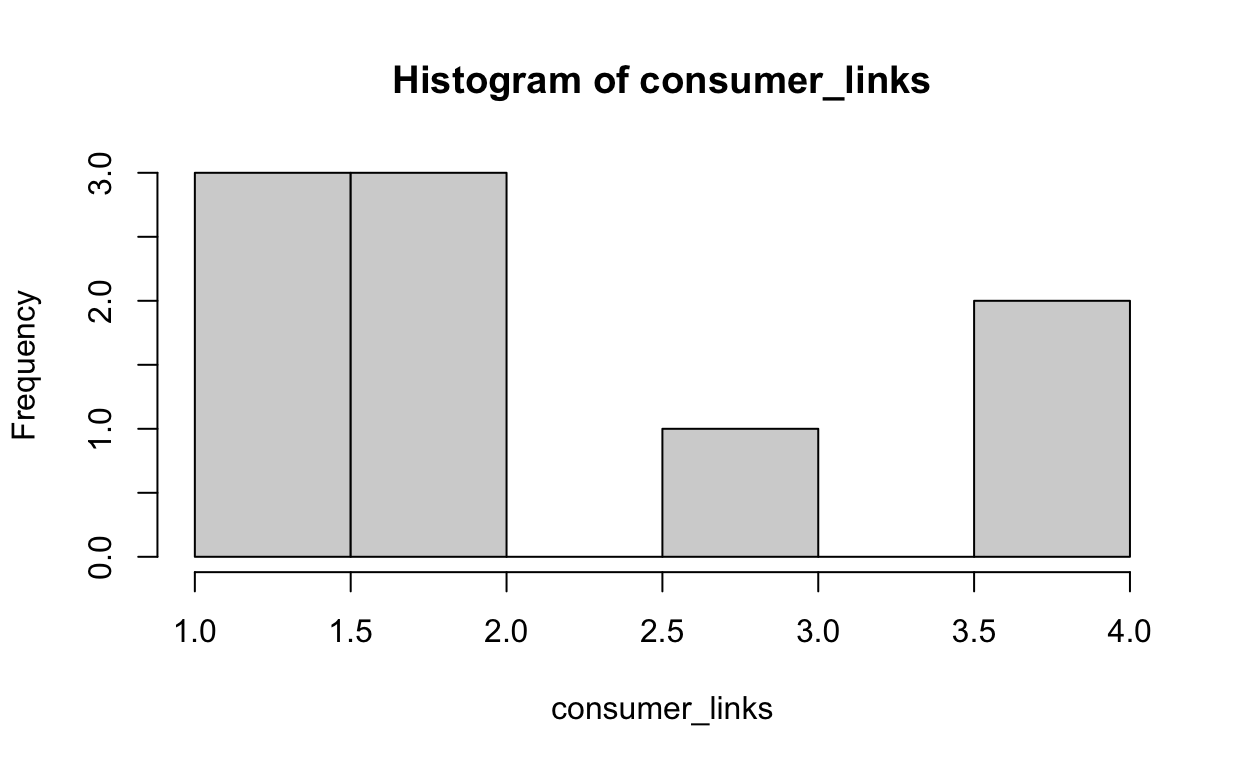
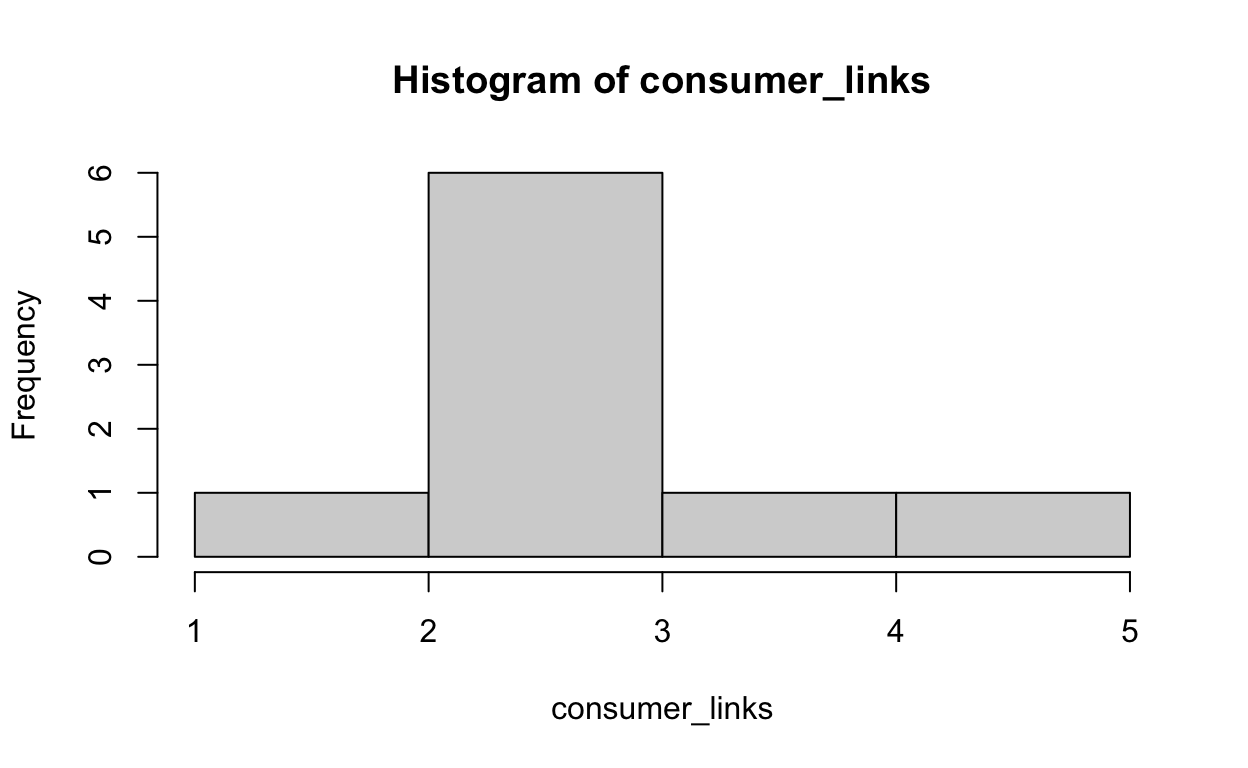
almost finished first draft

diff --git a/_posts/2022-04-13-beta-diversity-and-species-responses/beta-diversity-and-species-responses.html b/_posts/2022-04-13-beta-diversity-and-species-responses/beta-diversity-and-species-responses.html
@@ -94,7 +94,7 @@ code span.wa { color: #5e5e5e; font-style: italic; } /* Warning */
   <!--  https://schema.org/Article -->
   <meta property="article:published" itemprop="datePublished" content="2022-04-13"/>
   <meta property="article:created" itemprop="dateCreated" content="2022-04-13"/>
-  <meta name="article:author" content="Nora Jones"/>
+  <meta name="article:author" content="Andrew MacDonald"/>
 
   <!--  https://developers.facebook.com/docs/sharing/webmasters#markup -->
   <meta property="og:title" content="Beta diversity and species responses"/>
@@ -111,12 +111,12 @@ code span.wa { color: #5e5e5e; font-style: italic; } /* Warning */
   <!--radix_placeholder_rmarkdown_metadata-->
 
   <script type="text/json" id="radix-rmarkdown-metadata">
-  {"type":"list","attributes":{"names":{"type":"character","attributes":{},"value":["title","description","author","date","output"]}},"value":[{"type":"character","attributes":{},"value":["Beta diversity and species responses"]},{"type":"character","attributes":{},"value":["A short description of the post.\n"]},{"type":"list","attributes":{},"value":[{"type":"list","attributes":{"names":{"type":"character","attributes":{},"value":["name","url"]}},"value":[{"type":"character","attributes":{},"value":["Nora Jones"]},{"type":"character","attributes":{},"value":["https://example.com/norajones"]}]}]},{"type":"character","attributes":{},"value":["04-13-2022"]},{"type":"list","attributes":{"names":{"type":"character","attributes":{},"value":["distill::distill_article"]}},"value":[{"type":"list","attributes":{"names":{"type":"character","attributes":{},"value":["self_contained"]}},"value":[{"type":"logical","attributes":{},"value":[false]}]}]}]}
+  {"type":"list","attributes":{"names":{"type":"character","attributes":{},"value":["title","description","author","date","output"]}},"value":[{"type":"character","attributes":{},"value":["Beta diversity and species responses"]},{"type":"character","attributes":{},"value":["A short description of the post.\n"]},{"type":"list","attributes":{},"value":[{"type":"list","attributes":{"names":{"type":"character","attributes":{},"value":["name","url"]}},"value":[{"type":"character","attributes":{},"value":["Andrew MacDonald"]},{"type":"character","attributes":{},"value":["https://example.com/norajones"]}]}]},{"type":"character","attributes":{},"value":["04-13-2022"]},{"type":"list","attributes":{"names":{"type":"character","attributes":{},"value":["distill::distill_article"]}},"value":[{"type":"list","attributes":{"names":{"type":"character","attributes":{},"value":["self_contained"]}},"value":[{"type":"logical","attributes":{},"value":[false]}]}]}]}
   </script>
   <!--/radix_placeholder_rmarkdown_metadata-->
   
   <script type="text/json" id="radix-resource-manifest">
-  {"type":"character","attributes":{},"value":["beta-diversity-and-species-responses_files/figure-html5/unnamed-chunk-2-1.png","beta-diversity-and-species-responses_files/figure-html5/unnamed-chunk-3-1.png"]}
+  {"type":"character","attributes":{},"value":["beta-diversity-and-species-responses_files/anchor-4.2.2/anchor.min.js","beta-diversity-and-species-responses_files/bowser-1.9.3/bowser.min.js","beta-diversity-and-species-responses_files/distill-2.2.21/template.v2.js","beta-diversity-and-species-responses_files/figure-html5/unnamed-chunk-2-1.png","beta-diversity-and-species-responses_files/figure-html5/unnamed-chunk-3-1.png","beta-diversity-and-species-responses_files/figure-html5/unnamed-chunk-4-1.png","beta-diversity-and-species-responses_files/figure-html5/unnamed-chunk-6-1.png","beta-diversity-and-species-responses_files/figure-html5/unnamed-chunk-6-2.png","beta-diversity-and-species-responses_files/figure-html5/unnamed-chunk-7-1.png","beta-diversity-and-species-responses_files/header-attrs-2.11.3/header-attrs.js","beta-diversity-and-species-responses_files/jquery-3.6.0/jquery-3.6.0.js","beta-diversity-and-species-responses_files/jquery-3.6.0/jquery-3.6.0.min.js","beta-diversity-and-species-responses_files/jquery-3.6.0/jquery-3.6.0.min.map","beta-diversity-and-species-responses_files/popper-2.6.0/popper.min.js","beta-diversity-and-species-responses_files/tippy-6.2.7/tippy-bundle.umd.min.js","beta-diversity-and-species-responses_files/tippy-6.2.7/tippy-light-border.css","beta-diversity-and-species-responses_files/tippy-6.2.7/tippy.css","beta-diversity-and-species-responses_files/tippy-6.2.7/tippy.umd.min.js","beta-diversity-and-species-responses_files/webcomponents-2.0.0/webcomponents.js"]}
   </script>
   <!--radix_placeholder_navigation_in_header-->
   <!--/radix_placeholder_navigation_in_header-->
@@ -1455,7 +1455,7 @@ code span.wa { color: #5e5e5e; font-style: italic; } /* Warning */
 <!--radix_placeholder_front_matter-->
 
 <script id="distill-front-matter" type="text/json">
-{"title":"Beta diversity and species responses","description":"A short description of the post.","authors":[{"author":"Nora Jones","authorURL":"https://example.com/norajones","affiliation":"&nbsp;","affiliationURL":"#","orcidID":""}],"publishedDate":"2022-04-13T00:00:00.000+00:00","citationText":"Jones, 2022"}
+{"title":"Beta diversity and species responses","description":"A short description of the post.","authors":[{"author":"Andrew MacDonald","authorURL":"https://example.com/norajones","affiliation":"&nbsp;","affiliationURL":"#","orcidID":""}],"publishedDate":"2022-04-13T00:00:00.000+00:00","citationText":"MacDonald, 2022"}
 </script>
 
 <!--/radix_placeholder_front_matter-->
@@ -1472,14 +1472,17 @@ code span.wa { color: #5e5e5e; font-style: italic; } /* Warning */
 </div>
 
 <div class="d-byline">
-  Nora Jones <a href="https://example.com/norajones" class="uri">https://example.com/norajones</a> 
+  Andrew MacDonald <a href="https://example.com/norajones" class="uri">https://example.com/norajones</a> 
   
 <br/>04-13-2022
 </div>
 
 <div class="d-article">
 <div class="layout-chunk" data-layout="l-body">
-
+<div class="sourceCode">
+<pre class="sourceCode r"><code class="sourceCode r"><span class='kw'><a href='https://rdrr.io/r/base/library.html'>library</a></span><span class='op'>(</span><span class='va'><a href='https://tidyverse.tidyverse.org'>tidyverse</a></span><span class='op'>)</span>
+</code></pre>
+</div>
 </div>
 <h3 id="food-web-simulations">Food web simulations</h3>
 <p>Need to simulate the food web in a plausible way. Some constraints:</p>
@@ -1501,16 +1504,112 @@ Do we want to have some kind of.. <em>3</em>-inflated distribution for our links
 <p>One simple way to do this is to allow the node distribution to have an average centered on 3</p>
 <p>The steps: * find the average p for a food web where most species eat 3 things * let each consumer have a different p (complexify this later) * draw links for each predator</p>
 <div class="layout-chunk" data-layout="l-body">
+<div class="sourceCode">
+<pre class="sourceCode r"><code class="sourceCode r"><span class='va'>n_basal</span> <span class='op'>&lt;-</span> <span class='fl'>3</span>
+<span class='va'>S</span> <span class='op'>&lt;-</span> <span class='fl'>12</span>
+
+<span class='va'>mean_p</span> <span class='op'>&lt;-</span> <span class='op'>(</span><span class='va'>n_basal</span> <span class='op'>-</span> <span class='fl'>1</span><span class='op'>)</span><span class='op'>/</span><span class='op'>(</span><span class='va'>S</span> <span class='op'>-</span> <span class='fl'>1</span><span class='op'>)</span>
+
+<span class='va'>consumer_probs</span> <span class='op'>&lt;-</span> <span class='fu'><a href='https://rdrr.io/r/stats/Beta.html'>rbeta</a></span><span class='op'>(</span>n <span class='op'>=</span> <span class='va'>S</span> <span class='op'>-</span> <span class='va'>n_basal</span>, <span class='va'>mean_p</span> <span class='op'>*</span> <span class='fl'>3</span>, <span class='op'>(</span><span class='fl'>1</span> <span class='op'>-</span> <span class='va'>mean_p</span><span class='op'>)</span> <span class='op'>*</span> <span class='fl'>3</span><span class='op'>)</span>
+
+<span class='va'>consumer_links</span> <span class='op'>&lt;-</span> <span class='fu'><a href='https://rdrr.io/r/stats/Binomial.html'>rbinom</a></span><span class='op'>(</span><span class='va'>S</span> <span class='op'>-</span> <span class='va'>n_basal</span>, <span class='va'>S</span> <span class='op'>-</span> <span class='fl'>1</span>, prob <span class='op'>=</span> <span class='va'>consumer_probs</span><span class='op'>)</span> <span class='op'>+</span> <span class='fl'>1</span>
+
+<span class='fu'><a href='https://rdrr.io/r/graphics/hist.html'>hist</a></span><span class='op'>(</span><span class='va'>consumer_links</span><span class='op'>)</span>
+</code></pre>
+</div>
 <p><img src="beta-diversity-and-species-responses_files/figure-html5/unnamed-chunk-2-1.png" width="624" /></p>
 </div>
 <p>this could be converted to the logit scale:</p>
 <div class="layout-chunk" data-layout="l-body">
+<div class="sourceCode">
+<pre class="sourceCode r"><code class="sourceCode r"><span class='va'>consumer_probs_logit</span> <span class='op'>&lt;-</span> <span class='fu'><a href='https://rdrr.io/r/stats/Logistic.html'>plogis</a></span><span class='op'>(</span><span class='fu'><a href='https://rdrr.io/r/stats/Logistic.html'>qlogis</a></span><span class='op'>(</span><span class='va'>mean_p</span><span class='op'>)</span> <span class='op'>+</span> <span class='fu'><a href='https://rdrr.io/r/stats/Normal.html'>rnorm</a></span><span class='op'>(</span><span class='va'>S</span> <span class='op'>-</span> <span class='va'>n_basal</span>, mean <span class='op'>=</span> <span class='fl'>0</span>, sd <span class='op'>=</span> <span class='fl'>.2</span><span class='op'>)</span><span class='op'>)</span>
+
+<span class='va'>degrees</span> <span class='op'>&lt;-</span> <span class='fu'><a href='https://rdrr.io/r/stats/Binomial.html'>rbinom</a></span><span class='op'>(</span><span class='va'>S</span> <span class='op'>-</span> <span class='va'>n_basal</span>, <span class='va'>S</span> <span class='op'>-</span> <span class='fl'>1</span>, prob <span class='op'>=</span> <span class='va'>consumer_probs_logit</span><span class='op'>)</span> <span class='op'>+</span> <span class='fl'>1</span>
+
+<span class='fu'>tibble</span><span class='op'>(</span><span class='va'>degrees</span><span class='op'>)</span> |&gt; 
+  <span class='fu'>count</span><span class='op'>(</span><span class='va'>degrees</span><span class='op'>)</span> |&gt; 
+  <span class='fu'>ggplot</span><span class='op'>(</span><span class='fu'>aes</span><span class='op'>(</span>x <span class='op'>=</span> <span class='va'>degrees</span>, y <span class='op'>=</span> <span class='va'>n</span><span class='op'>)</span><span class='op'>)</span> <span class='op'>+</span> 
+  <span class='fu'>geom_bar</span><span class='op'>(</span>stat <span class='op'>=</span> <span class='st'>"identity"</span><span class='op'>)</span> <span class='op'>+</span> 
+  <span class='fu'>coord_cartesian</span><span class='op'>(</span>xlim <span class='op'>=</span> <span class='fu'><a href='https://rdrr.io/r/base/c.html'>c</a></span><span class='op'>(</span><span class='fl'>0</span>, <span class='va'>S</span><span class='op'>)</span><span class='op'>)</span>
+</code></pre>
+</div>
 <p><img src="beta-diversity-and-species-responses_files/figure-html5/unnamed-chunk-3-1.png" width="624" /></p>
 </div>
 <h3 id="simulate-incidence-functions">simulate incidence functions</h3>
+<p><span class="math display">\[
+\begin{align}
+Y_i &amp;\sim \text{Binomial}(p, 1) \\
+\text{logit}(p) &amp;= a(\phi - b) \\
+\phi &amp;= \bar{\phi} + \beta_{e}X_e \\
+\begin{bmatrix} a \cr b\ \end{bmatrix} &amp;\sim \text{MVN}(\begin{bmatrix} \bar{a} \cr \bar{b}\ \end{bmatrix}, \Sigma)
+\end{align}
+\]</span></p>
 <div class="layout-chunk" data-layout="l-body">
+<div class="sourceCode">
+<pre class="sourceCode r"><code class="sourceCode r"><span class='va'>nsites</span> <span class='op'>&lt;-</span> <span class='fl'>45</span>
+<span class='va'>x</span> <span class='op'>&lt;-</span> <span class='fu'><a href='https://rdrr.io/r/stats/Uniform.html'>runif</a></span><span class='op'>(</span><span class='va'>nsites</span>, min <span class='op'>=</span> <span class='op'>-</span><span class='fl'>3</span>, max <span class='op'>=</span> <span class='fl'>3</span><span class='op'>)</span>
 
+<span class='va'>bar_phi</span> <span class='op'>&lt;-</span> <span class='op'>-</span><span class='fl'>1</span>
+<span class='va'>beta_phi</span> <span class='op'>&lt;-</span> <span class='fl'>.3</span>
+
+<span class='va'>phi</span> <span class='op'>&lt;-</span> <span class='va'>bar_phi</span> <span class='op'>+</span> <span class='va'>beta_phi</span> <span class='op'>*</span> <span class='va'>x</span>
+
+<span class='fu'><a href='https://rdrr.io/r/graphics/plot.default.html'>plot</a></span><span class='op'>(</span><span class='va'>x</span>, <span class='fu'><a href='https://rdrr.io/r/stats/Logistic.html'>plogis</a></span><span class='op'>(</span><span class='va'>phi</span><span class='op'>)</span><span class='op'>)</span>
+</code></pre>
 </div>
+<p><img src="beta-diversity-and-species-responses_files/figure-html5/unnamed-chunk-4-1.png" width="624" /></p>
+</div>
+<p>simulate correlated <span class="math inline">\(a\)</span> and <span class="math inline">\(b\)</span></p>
+<div class="layout-chunk" data-layout="l-body">
+<div class="sourceCode">
+<pre class="sourceCode r"><code class="sourceCode r"><span class='va'>corr_mat</span> <span class='op'>&lt;-</span> <span class='fu'><a href='https://rdrr.io/r/base/matrix.html'>matrix</a></span><span class='op'>(</span><span class='fu'><a href='https://rdrr.io/r/base/c.html'>c</a></span><span class='op'>(</span><span class='fl'>1</span>, <span class='fl'>.5</span>, <span class='fl'>.5</span>, <span class='fl'>1</span><span class='op'>)</span>, nrow <span class='op'>=</span> <span class='fl'>2</span><span class='op'>)</span>
+<span class='va'>sds</span> <span class='op'>&lt;-</span> <span class='fu'><a href='https://rdrr.io/r/base/c.html'>c</a></span><span class='op'>(</span><span class='fl'>.4</span>, <span class='fl'>1</span><span class='op'>)</span>
+
+<span class='va'>sig</span> <span class='op'>&lt;-</span> <span class='fu'><a href='https://rdrr.io/r/base/diag.html'>diag</a></span><span class='op'>(</span><span class='va'>sds</span><span class='op'>)</span> <span class='op'>%*%</span> <span class='va'>corr_mat</span> <span class='op'>%*%</span> <span class='fu'><a href='https://rdrr.io/r/base/diag.html'>diag</a></span><span class='op'>(</span><span class='va'>sds</span><span class='op'>)</span>
+
+<span class='va'>consumer_a_b</span> <span class='op'>&lt;-</span> <span class='fu'>MASS</span><span class='fu'>::</span><span class='fu'><a href='https://rdrr.io/pkg/MASS/man/mvrnorm.html'>mvrnorm</a></span><span class='op'>(</span><span class='va'>S</span> <span class='op'>-</span> <span class='va'>n_basal</span>, mu <span class='op'>=</span> <span class='fu'><a href='https://rdrr.io/r/base/c.html'>c</a></span><span class='op'>(</span><span class='fl'>1.5</span>, <span class='op'>-</span><span class='fl'>3</span><span class='op'>)</span>, Sigma <span class='op'>=</span> <span class='va'>sig</span><span class='op'>)</span>
+</code></pre>
+</div>
+</div>
+<p>match species and sites to the coefs:</p>
+<div class="layout-chunk" data-layout="l-body">
+<div class="sourceCode">
+<pre class="sourceCode r"><code class="sourceCode r"><span class='va'>fake_data</span> <span class='op'>&lt;-</span> <span class='fu'>expand_grid</span><span class='op'>(</span>site <span class='op'>=</span> <span class='fl'>1</span><span class='op'>:</span><span class='va'>nsites</span>, sp <span class='op'>=</span> <span class='fl'>1</span><span class='op'>:</span><span class='op'>(</span><span class='va'>S</span> <span class='op'>-</span> <span class='va'>n_basal</span><span class='op'>)</span><span class='op'>)</span> |&gt; 
+  <span class='fu'>mutate</span><span class='op'>(</span>
+    x <span class='op'>=</span> <span class='va'>x</span><span class='op'>[</span><span class='va'>site</span><span class='op'>]</span>,
+    logit_prob <span class='op'>=</span> <span class='va'>consumer_a_b</span><span class='op'>[</span><span class='va'>sp</span>, <span class='fl'>1</span><span class='op'>]</span> <span class='op'>*</span> <span class='op'>(</span><span class='va'>phi</span><span class='op'>[</span><span class='va'>site</span><span class='op'>]</span> <span class='op'>-</span> <span class='va'>consumer_a_b</span><span class='op'>[</span><span class='va'>sp</span>, <span class='fl'>2</span><span class='op'>]</span><span class='op'>)</span><span class='op'>)</span>
+
+<span class='va'>fake_data</span> |&gt; 
+  <span class='fu'>ggplot</span><span class='op'>(</span><span class='fu'>aes</span><span class='op'>(</span>x <span class='op'>=</span> <span class='va'>x</span>, y <span class='op'>=</span> <span class='va'>logit_prob</span>, group <span class='op'>=</span> <span class='va'>sp</span><span class='op'>)</span><span class='op'>)</span> <span class='op'>+</span> 
+  <span class='fu'>geom_line</span><span class='op'>(</span><span class='op'>)</span>
+</code></pre>
+</div>
+<img src="beta-diversity-and-species-responses_files/figure-html5/unnamed-chunk-6-1.png" width="624" />
+<div class="sourceCode">
+<pre class="sourceCode r"><code class="sourceCode r"><span class='va'>fake_data</span> |&gt; 
+  <span class='fu'>ggplot</span><span class='op'>(</span><span class='fu'>aes</span><span class='op'>(</span>x <span class='op'>=</span> <span class='va'>x</span>, y <span class='op'>=</span> <span class='fu'><a href='https://rdrr.io/r/stats/Logistic.html'>plogis</a></span><span class='op'>(</span><span class='va'>logit_prob</span><span class='op'>)</span>, group <span class='op'>=</span> <span class='va'>sp</span><span class='op'>)</span><span class='op'>)</span> <span class='op'>+</span> 
+  <span class='fu'>geom_line</span><span class='op'>(</span><span class='op'>)</span>
+</code></pre>
+</div>
+<p><img src="beta-diversity-and-species-responses_files/figure-html5/unnamed-chunk-6-2.png" width="624" /></p>
+</div>
+<p>Now, we need to sample species compositions from this curve</p>
+<div class="layout-chunk" data-layout="l-body">
+<div class="sourceCode">
+<pre class="sourceCode r"><code class="sourceCode r"><span class='va'>fake_data_obs</span> <span class='op'>&lt;-</span> <span class='va'>fake_data</span> |&gt; 
+  <span class='fu'>mutate</span><span class='op'>(</span>prb <span class='op'>=</span> <span class='fu'><a href='https://rdrr.io/r/stats/Logistic.html'>plogis</a></span><span class='op'>(</span><span class='va'>logit_prob</span><span class='op'>)</span>,
+         presabs <span class='op'>=</span> <span class='fu'><a href='https://rdrr.io/r/stats/Binomial.html'>rbinom</a></span><span class='op'>(</span><span class='fu'><a href='https://rdrr.io/r/base/nrow.html'>nrow</a></span><span class='op'>(</span><span class='va'>fake_data</span><span class='op'>)</span>, size <span class='op'>=</span> <span class='fl'>1</span>, prob <span class='op'>=</span> <span class='va'>prb</span><span class='op'>)</span><span class='op'>)</span>
+
+<span class='va'>fake_data_obs</span> |&gt; 
+  <span class='fu'>group_by</span><span class='op'>(</span><span class='va'>site</span>, <span class='va'>x</span><span class='op'>)</span> |&gt; 
+  <span class='fu'>summarize</span><span class='op'>(</span>richness <span class='op'>=</span> <span class='fu'><a href='https://rdrr.io/r/base/sum.html'>sum</a></span><span class='op'>(</span><span class='va'>presabs</span><span class='op'>)</span><span class='op'>)</span> |&gt; 
+  <span class='fu'>ggplot</span><span class='op'>(</span><span class='fu'>aes</span><span class='op'>(</span>x <span class='op'>=</span> <span class='va'>x</span>, y <span class='op'>=</span> <span class='va'>richness</span><span class='op'>)</span><span class='op'>)</span> <span class='op'>+</span> <span class='fu'>geom_point</span><span class='op'>(</span><span class='op'>)</span>
+</code></pre>
+</div>
+<p><img src="beta-diversity-and-species-responses_files/figure-html5/unnamed-chunk-7-1.png" width="624" /></p>
+</div>
+<p>Finally, we can tweak the simulation to include correlations between the response to the environment and the number of nodes</p>
+<p>Could then look at the relationship between connectance and the environment, for example</p>
 <div class="sourceCode" id="cb1"><pre class="sourceCode r distill-force-highlighting-css"><code class="sourceCode r"></code></pre></div>
 <!--radix_placeholder_article_footer-->
 <!--/radix_placeholder_article_footer-->

diff --git a/_docs/posts/2022-04-13-beta-diversity-and-species-responses/index.html b/_docs/posts/2022-04-13-beta-diversity-and-species-responses/index.html
@@ -94,7 +94,7 @@ code span.wa { color: #5e5e5e; font-style: italic; } /* Warning */
 <!--  https://schema.org/Article -->
 <meta property="article:published" itemprop="datePublished" content="2022-04-13"/>
 <meta property="article:created" itemprop="dateCreated" content="2022-04-13"/>
-<meta name="article:author" content="Nora Jones"/>
+<meta name="article:author" content="Andrew MacDonald"/>
 
 <!--  https://developers.facebook.com/docs/sharing/webmasters#markup -->
 <meta property="og:title" content="sCaleWebs model simulations: Beta diversity and species responses"/>
@@ -112,12 +112,12 @@ code span.wa { color: #5e5e5e; font-style: italic; } /* Warning */
   <!--radix_placeholder_rmarkdown_metadata-->
 
 <script type="text/json" id="radix-rmarkdown-metadata">
-{"type":"list","attributes":{"names":{"type":"character","attributes":{},"value":["title","description","author","date","output"]}},"value":[{"type":"character","attributes":{},"value":["Beta diversity and species responses"]},{"type":"character","attributes":{},"value":["A short description of the post."]},{"type":"list","attributes":{},"value":[{"type":"list","attributes":{"names":{"type":"character","attributes":{},"value":["name","url"]}},"value":[{"type":"character","attributes":{},"value":["Nora Jones"]},{"type":"character","attributes":{},"value":["https://example.com/norajones"]}]}]},{"type":"character","attributes":{},"value":["04-13-2022"]},{"type":"list","attributes":{"names":{"type":"character","attributes":{},"value":["distill::distill_article"]}},"value":[{"type":"list","attributes":{"names":{"type":"character","attributes":{},"value":["self_contained"]}},"value":[{"type":"logical","attributes":{},"value":[false]}]}]}]}
+{"type":"list","attributes":{"names":{"type":"character","attributes":{},"value":["title","description","author","date","output"]}},"value":[{"type":"character","attributes":{},"value":["Beta diversity and species responses"]},{"type":"character","attributes":{},"value":["A short description of the post."]},{"type":"list","attributes":{},"value":[{"type":"list","attributes":{"names":{"type":"character","attributes":{},"value":["name","url"]}},"value":[{"type":"character","attributes":{},"value":["Andrew MacDonald"]},{"type":"character","attributes":{},"value":["https://example.com/norajones"]}]}]},{"type":"character","attributes":{},"value":["04-13-2022"]},{"type":"list","attributes":{"names":{"type":"character","attributes":{},"value":["distill::distill_article"]}},"value":[{"type":"list","attributes":{"names":{"type":"character","attributes":{},"value":["self_contained"]}},"value":[{"type":"logical","attributes":{},"value":[false]}]}]}]}
 </script>
 <!--/radix_placeholder_rmarkdown_metadata-->
   
   <script type="text/json" id="radix-resource-manifest">
-  {"type":"character","attributes":{},"value":["beta-diversity-and-species-responses_files/figure-html5/unnamed-chunk-2-1.png","beta-diversity-and-species-responses_files/figure-html5/unnamed-chunk-3-1.png"]}
+  {"type":"character","attributes":{},"value":["beta-diversity-and-species-responses_files/anchor-4.2.2/anchor.min.js","beta-diversity-and-species-responses_files/bowser-1.9.3/bowser.min.js","beta-diversity-and-species-responses_files/distill-2.2.21/template.v2.js","beta-diversity-and-species-responses_files/figure-html5/unnamed-chunk-2-1.png","beta-diversity-and-species-responses_files/figure-html5/unnamed-chunk-3-1.png","beta-diversity-and-species-responses_files/figure-html5/unnamed-chunk-4-1.png","beta-diversity-and-species-responses_files/figure-html5/unnamed-chunk-6-1.png","beta-diversity-and-species-responses_files/figure-html5/unnamed-chunk-6-2.png","beta-diversity-and-species-responses_files/figure-html5/unnamed-chunk-7-1.png","beta-diversity-and-species-responses_files/header-attrs-2.11.3/header-attrs.js","beta-diversity-and-species-responses_files/jquery-3.6.0/jquery-3.6.0.js","beta-diversity-and-species-responses_files/jquery-3.6.0/jquery-3.6.0.min.js","beta-diversity-and-species-responses_files/jquery-3.6.0/jquery-3.6.0.min.map","beta-diversity-and-species-responses_files/popper-2.6.0/popper.min.js","beta-diversity-and-species-responses_files/tippy-6.2.7/tippy-bundle.umd.min.js","beta-diversity-and-species-responses_files/tippy-6.2.7/tippy-light-border.css","beta-diversity-and-species-responses_files/tippy-6.2.7/tippy.css","beta-diversity-and-species-responses_files/tippy-6.2.7/tippy.umd.min.js","beta-diversity-and-species-responses_files/webcomponents-2.0.0/webcomponents.js"]}
   </script>
   <!--radix_placeholder_navigation_in_header-->
 <meta name="distill:offset" content="../.."/>
@@ -2062,7 +2062,7 @@ document.addEventListener('DOMContentLoaded', function() {
 <!--radix_placeholder_front_matter-->
 
 <script id="distill-front-matter" type="text/json">
-{"title":"Beta diversity and species responses","description":"A short description of the post.","authors":[{"author":"Nora Jones","authorURL":"https://example.com/norajones","affiliation":"&nbsp;","affiliationURL":"#","orcidID":""}],"publishedDate":"2022-04-13T00:00:00.000+00:00","citationText":"Jones, 2022"}
+{"title":"Beta diversity and species responses","description":"A short description of the post.","authors":[{"author":"Andrew MacDonald","authorURL":"https://example.com/norajones","affiliation":"&nbsp;","affiliationURL":"#","orcidID":""}],"publishedDate":"2022-04-13T00:00:00.000+00:00","citationText":"MacDonald, 2022"}
 </script>
 
 <!--/radix_placeholder_front_matter-->
@@ -2092,14 +2092,17 @@ document.addEventListener('DOMContentLoaded', function() {
 </div>
 
 <div class="d-byline">
-  Nora Jones <a href="https://example.com/norajones" class="uri">https://example.com/norajones</a> 
+  Andrew MacDonald <a href="https://example.com/norajones" class="uri">https://example.com/norajones</a> 
   
 <br/>04-13-2022
 </div>
 
 <div class="d-article">
 <div class="layout-chunk" data-layout="l-body">
-
+<div class="sourceCode">
+<pre class="sourceCode r"><code class="sourceCode r"><span class='kw'><a href='https://rdrr.io/r/base/library.html'>library</a></span><span class='op'>(</span><span class='va'><a href='https://tidyverse.tidyverse.org'>tidyverse</a></span><span class='op'>)</span>
+</code></pre>
+</div>
 </div>
 <h3 id="food-web-simulations">Food web simulations</h3>
 <p>Need to simulate the food web in a plausible way. Some constraints:</p>
@@ -2121,16 +2124,112 @@ Do we want to have some kind of.. <em>3</em>-inflated distribution for our links
 <p>One simple way to do this is to allow the node distribution to have an average centered on 3</p>
 <p>The steps: * find the average p for a food web where most species eat 3 things * let each consumer have a different p (complexify this later) * draw links for each predator</p>
 <div class="layout-chunk" data-layout="l-body">
+<div class="sourceCode">
+<pre class="sourceCode r"><code class="sourceCode r"><span class='va'>n_basal</span> <span class='op'>&lt;-</span> <span class='fl'>3</span>
+<span class='va'>S</span> <span class='op'>&lt;-</span> <span class='fl'>12</span>
+
+<span class='va'>mean_p</span> <span class='op'>&lt;-</span> <span class='op'>(</span><span class='va'>n_basal</span> <span class='op'>-</span> <span class='fl'>1</span><span class='op'>)</span><span class='op'>/</span><span class='op'>(</span><span class='va'>S</span> <span class='op'>-</span> <span class='fl'>1</span><span class='op'>)</span>
+
+<span class='va'>consumer_probs</span> <span class='op'>&lt;-</span> <span class='fu'><a href='https://rdrr.io/r/stats/Beta.html'>rbeta</a></span><span class='op'>(</span>n <span class='op'>=</span> <span class='va'>S</span> <span class='op'>-</span> <span class='va'>n_basal</span>, <span class='va'>mean_p</span> <span class='op'>*</span> <span class='fl'>3</span>, <span class='op'>(</span><span class='fl'>1</span> <span class='op'>-</span> <span class='va'>mean_p</span><span class='op'>)</span> <span class='op'>*</span> <span class='fl'>3</span><span class='op'>)</span>
+
+<span class='va'>consumer_links</span> <span class='op'>&lt;-</span> <span class='fu'><a href='https://rdrr.io/r/stats/Binomial.html'>rbinom</a></span><span class='op'>(</span><span class='va'>S</span> <span class='op'>-</span> <span class='va'>n_basal</span>, <span class='va'>S</span> <span class='op'>-</span> <span class='fl'>1</span>, prob <span class='op'>=</span> <span class='va'>consumer_probs</span><span class='op'>)</span> <span class='op'>+</span> <span class='fl'>1</span>
+
+<span class='fu'><a href='https://rdrr.io/r/graphics/hist.html'>hist</a></span><span class='op'>(</span><span class='va'>consumer_links</span><span class='op'>)</span>
+</code></pre>
+</div>
 <p><img src="beta-diversity-and-species-responses_files/figure-html5/unnamed-chunk-2-1.png" width="624" /></p>
 </div>
 <p>this could be converted to the logit scale:</p>
 <div class="layout-chunk" data-layout="l-body">
+<div class="sourceCode">
+<pre class="sourceCode r"><code class="sourceCode r"><span class='va'>consumer_probs_logit</span> <span class='op'>&lt;-</span> <span class='fu'><a href='https://rdrr.io/r/stats/Logistic.html'>plogis</a></span><span class='op'>(</span><span class='fu'><a href='https://rdrr.io/r/stats/Logistic.html'>qlogis</a></span><span class='op'>(</span><span class='va'>mean_p</span><span class='op'>)</span> <span class='op'>+</span> <span class='fu'><a href='https://rdrr.io/r/stats/Normal.html'>rnorm</a></span><span class='op'>(</span><span class='va'>S</span> <span class='op'>-</span> <span class='va'>n_basal</span>, mean <span class='op'>=</span> <span class='fl'>0</span>, sd <span class='op'>=</span> <span class='fl'>.2</span><span class='op'>)</span><span class='op'>)</span>
+
+<span class='va'>degrees</span> <span class='op'>&lt;-</span> <span class='fu'><a href='https://rdrr.io/r/stats/Binomial.html'>rbinom</a></span><span class='op'>(</span><span class='va'>S</span> <span class='op'>-</span> <span class='va'>n_basal</span>, <span class='va'>S</span> <span class='op'>-</span> <span class='fl'>1</span>, prob <span class='op'>=</span> <span class='va'>consumer_probs_logit</span><span class='op'>)</span> <span class='op'>+</span> <span class='fl'>1</span>
+
+<span class='fu'>tibble</span><span class='op'>(</span><span class='va'>degrees</span><span class='op'>)</span> |&gt; 
+  <span class='fu'>count</span><span class='op'>(</span><span class='va'>degrees</span><span class='op'>)</span> |&gt; 
+  <span class='fu'>ggplot</span><span class='op'>(</span><span class='fu'>aes</span><span class='op'>(</span>x <span class='op'>=</span> <span class='va'>degrees</span>, y <span class='op'>=</span> <span class='va'>n</span><span class='op'>)</span><span class='op'>)</span> <span class='op'>+</span> 
+  <span class='fu'>geom_bar</span><span class='op'>(</span>stat <span class='op'>=</span> <span class='st'>"identity"</span><span class='op'>)</span> <span class='op'>+</span> 
+  <span class='fu'>coord_cartesian</span><span class='op'>(</span>xlim <span class='op'>=</span> <span class='fu'><a href='https://rdrr.io/r/base/c.html'>c</a></span><span class='op'>(</span><span class='fl'>0</span>, <span class='va'>S</span><span class='op'>)</span><span class='op'>)</span>
+</code></pre>
+</div>
 <p><img src="beta-diversity-and-species-responses_files/figure-html5/unnamed-chunk-3-1.png" width="624" /></p>
 </div>
 <h3 id="simulate-incidence-functions">simulate incidence functions</h3>
+<p><span class="math display">\[
+\begin{align}
+Y_i &amp;\sim \text{Binomial}(p, 1) \\
+\text{logit}(p) &amp;= a(\phi - b) \\
+\phi &amp;= \bar{\phi} + \beta_{e}X_e \\
+\begin{bmatrix} a \cr b\ \end{bmatrix} &amp;\sim \text{MVN}(\begin{bmatrix} \bar{a} \cr \bar{b}\ \end{bmatrix}, \Sigma)
+\end{align}
+\]</span></p>
 <div class="layout-chunk" data-layout="l-body">
+<div class="sourceCode">
+<pre class="sourceCode r"><code class="sourceCode r"><span class='va'>nsites</span> <span class='op'>&lt;-</span> <span class='fl'>45</span>
+<span class='va'>x</span> <span class='op'>&lt;-</span> <span class='fu'><a href='https://rdrr.io/r/stats/Uniform.html'>runif</a></span><span class='op'>(</span><span class='va'>nsites</span>, min <span class='op'>=</span> <span class='op'>-</span><span class='fl'>3</span>, max <span class='op'>=</span> <span class='fl'>3</span><span class='op'>)</span>
 
+<span class='va'>bar_phi</span> <span class='op'>&lt;-</span> <span class='op'>-</span><span class='fl'>1</span>
+<span class='va'>beta_phi</span> <span class='op'>&lt;-</span> <span class='fl'>.3</span>
+
+<span class='va'>phi</span> <span class='op'>&lt;-</span> <span class='va'>bar_phi</span> <span class='op'>+</span> <span class='va'>beta_phi</span> <span class='op'>*</span> <span class='va'>x</span>
+
+<span class='fu'><a href='https://rdrr.io/r/graphics/plot.default.html'>plot</a></span><span class='op'>(</span><span class='va'>x</span>, <span class='fu'><a href='https://rdrr.io/r/stats/Logistic.html'>plogis</a></span><span class='op'>(</span><span class='va'>phi</span><span class='op'>)</span><span class='op'>)</span>
+</code></pre>
 </div>
+<p><img src="beta-diversity-and-species-responses_files/figure-html5/unnamed-chunk-4-1.png" width="624" /></p>
+</div>
+<p>simulate correlated <span class="math inline">\(a\)</span> and <span class="math inline">\(b\)</span></p>
+<div class="layout-chunk" data-layout="l-body">
+<div class="sourceCode">
+<pre class="sourceCode r"><code class="sourceCode r"><span class='va'>corr_mat</span> <span class='op'>&lt;-</span> <span class='fu'><a href='https://rdrr.io/r/base/matrix.html'>matrix</a></span><span class='op'>(</span><span class='fu'><a href='https://rdrr.io/r/base/c.html'>c</a></span><span class='op'>(</span><span class='fl'>1</span>, <span class='fl'>.5</span>, <span class='fl'>.5</span>, <span class='fl'>1</span><span class='op'>)</span>, nrow <span class='op'>=</span> <span class='fl'>2</span><span class='op'>)</span>
+<span class='va'>sds</span> <span class='op'>&lt;-</span> <span class='fu'><a href='https://rdrr.io/r/base/c.html'>c</a></span><span class='op'>(</span><span class='fl'>.4</span>, <span class='fl'>1</span><span class='op'>)</span>
+
+<span class='va'>sig</span> <span class='op'>&lt;-</span> <span class='fu'><a href='https://rdrr.io/r/base/diag.html'>diag</a></span><span class='op'>(</span><span class='va'>sds</span><span class='op'>)</span> <span class='op'>%*%</span> <span class='va'>corr_mat</span> <span class='op'>%*%</span> <span class='fu'><a href='https://rdrr.io/r/base/diag.html'>diag</a></span><span class='op'>(</span><span class='va'>sds</span><span class='op'>)</span>
+
+<span class='va'>consumer_a_b</span> <span class='op'>&lt;-</span> <span class='fu'>MASS</span><span class='fu'>::</span><span class='fu'><a href='https://rdrr.io/pkg/MASS/man/mvrnorm.html'>mvrnorm</a></span><span class='op'>(</span><span class='va'>S</span> <span class='op'>-</span> <span class='va'>n_basal</span>, mu <span class='op'>=</span> <span class='fu'><a href='https://rdrr.io/r/base/c.html'>c</a></span><span class='op'>(</span><span class='fl'>1.5</span>, <span class='op'>-</span><span class='fl'>3</span><span class='op'>)</span>, Sigma <span class='op'>=</span> <span class='va'>sig</span><span class='op'>)</span>
+</code></pre>
+</div>
+</div>
+<p>match species and sites to the coefs:</p>
+<div class="layout-chunk" data-layout="l-body">
+<div class="sourceCode">
+<pre class="sourceCode r"><code class="sourceCode r"><span class='va'>fake_data</span> <span class='op'>&lt;-</span> <span class='fu'>expand_grid</span><span class='op'>(</span>site <span class='op'>=</span> <span class='fl'>1</span><span class='op'>:</span><span class='va'>nsites</span>, sp <span class='op'>=</span> <span class='fl'>1</span><span class='op'>:</span><span class='op'>(</span><span class='va'>S</span> <span class='op'>-</span> <span class='va'>n_basal</span><span class='op'>)</span><span class='op'>)</span> |&gt; 
+  <span class='fu'>mutate</span><span class='op'>(</span>
+    x <span class='op'>=</span> <span class='va'>x</span><span class='op'>[</span><span class='va'>site</span><span class='op'>]</span>,
+    logit_prob <span class='op'>=</span> <span class='va'>consumer_a_b</span><span class='op'>[</span><span class='va'>sp</span>, <span class='fl'>1</span><span class='op'>]</span> <span class='op'>*</span> <span class='op'>(</span><span class='va'>phi</span><span class='op'>[</span><span class='va'>site</span><span class='op'>]</span> <span class='op'>-</span> <span class='va'>consumer_a_b</span><span class='op'>[</span><span class='va'>sp</span>, <span class='fl'>2</span><span class='op'>]</span><span class='op'>)</span><span class='op'>)</span>
+
+<span class='va'>fake_data</span> |&gt; 
+  <span class='fu'>ggplot</span><span class='op'>(</span><span class='fu'>aes</span><span class='op'>(</span>x <span class='op'>=</span> <span class='va'>x</span>, y <span class='op'>=</span> <span class='va'>logit_prob</span>, group <span class='op'>=</span> <span class='va'>sp</span><span class='op'>)</span><span class='op'>)</span> <span class='op'>+</span> 
+  <span class='fu'>geom_line</span><span class='op'>(</span><span class='op'>)</span>
+</code></pre>
+</div>
+<img src="beta-diversity-and-species-responses_files/figure-html5/unnamed-chunk-6-1.png" width="624" />
+<div class="sourceCode">
+<pre class="sourceCode r"><code class="sourceCode r"><span class='va'>fake_data</span> |&gt; 
+  <span class='fu'>ggplot</span><span class='op'>(</span><span class='fu'>aes</span><span class='op'>(</span>x <span class='op'>=</span> <span class='va'>x</span>, y <span class='op'>=</span> <span class='fu'><a href='https://rdrr.io/r/stats/Logistic.html'>plogis</a></span><span class='op'>(</span><span class='va'>logit_prob</span><span class='op'>)</span>, group <span class='op'>=</span> <span class='va'>sp</span><span class='op'>)</span><span class='op'>)</span> <span class='op'>+</span> 
+  <span class='fu'>geom_line</span><span class='op'>(</span><span class='op'>)</span>
+</code></pre>
+</div>
+<p><img src="beta-diversity-and-species-responses_files/figure-html5/unnamed-chunk-6-2.png" width="624" /></p>
+</div>
+<p>Now, we need to sample species compositions from this curve</p>
+<div class="layout-chunk" data-layout="l-body">
+<div class="sourceCode">
+<pre class="sourceCode r"><code class="sourceCode r"><span class='va'>fake_data_obs</span> <span class='op'>&lt;-</span> <span class='va'>fake_data</span> |&gt; 
+  <span class='fu'>mutate</span><span class='op'>(</span>prb <span class='op'>=</span> <span class='fu'><a href='https://rdrr.io/r/stats/Logistic.html'>plogis</a></span><span class='op'>(</span><span class='va'>logit_prob</span><span class='op'>)</span>,
+         presabs <span class='op'>=</span> <span class='fu'><a href='https://rdrr.io/r/stats/Binomial.html'>rbinom</a></span><span class='op'>(</span><span class='fu'><a href='https://rdrr.io/r/base/nrow.html'>nrow</a></span><span class='op'>(</span><span class='va'>fake_data</span><span class='op'>)</span>, size <span class='op'>=</span> <span class='fl'>1</span>, prob <span class='op'>=</span> <span class='va'>prb</span><span class='op'>)</span><span class='op'>)</span>
+
+<span class='va'>fake_data_obs</span> |&gt; 
+  <span class='fu'>group_by</span><span class='op'>(</span><span class='va'>site</span>, <span class='va'>x</span><span class='op'>)</span> |&gt; 
+  <span class='fu'>summarize</span><span class='op'>(</span>richness <span class='op'>=</span> <span class='fu'><a href='https://rdrr.io/r/base/sum.html'>sum</a></span><span class='op'>(</span><span class='va'>presabs</span><span class='op'>)</span><span class='op'>)</span> |&gt; 
+  <span class='fu'>ggplot</span><span class='op'>(</span><span class='fu'>aes</span><span class='op'>(</span>x <span class='op'>=</span> <span class='va'>x</span>, y <span class='op'>=</span> <span class='va'>richness</span><span class='op'>)</span><span class='op'>)</span> <span class='op'>+</span> <span class='fu'>geom_point</span><span class='op'>(</span><span class='op'>)</span>
+</code></pre>
+</div>
+<p><img src="beta-diversity-and-species-responses_files/figure-html5/unnamed-chunk-7-1.png" width="624" /></p>
+</div>
+<p>Finally, we can tweak the simulation to include correlations between the response to the environment and the number of nodes</p>
+<p>Could then look at the relationship between connectance and the environment, for example</p>
 <div class="sourceCode" id="cb1"><pre class="sourceCode r distill-force-highlighting-css"><code class="sourceCode r"></code></pre></div>
 <!--radix_placeholder_article_footer-->
 <!--/radix_placeholder_article_footer-->

diff --git a/_docs/index.html b/_docs/index.html
@@ -2211,7 +2211,7 @@ function init_posts_list() {
 <div class="metadata">
 <div class="publishedDate">April 13, 2022</div>
 <div class="dt-authors">
-<div class="dt-author">Nora Jones</div>
+<div class="dt-author">Andrew MacDonald</div>
 </div>
 </div>
 <div class="thumbnail">
